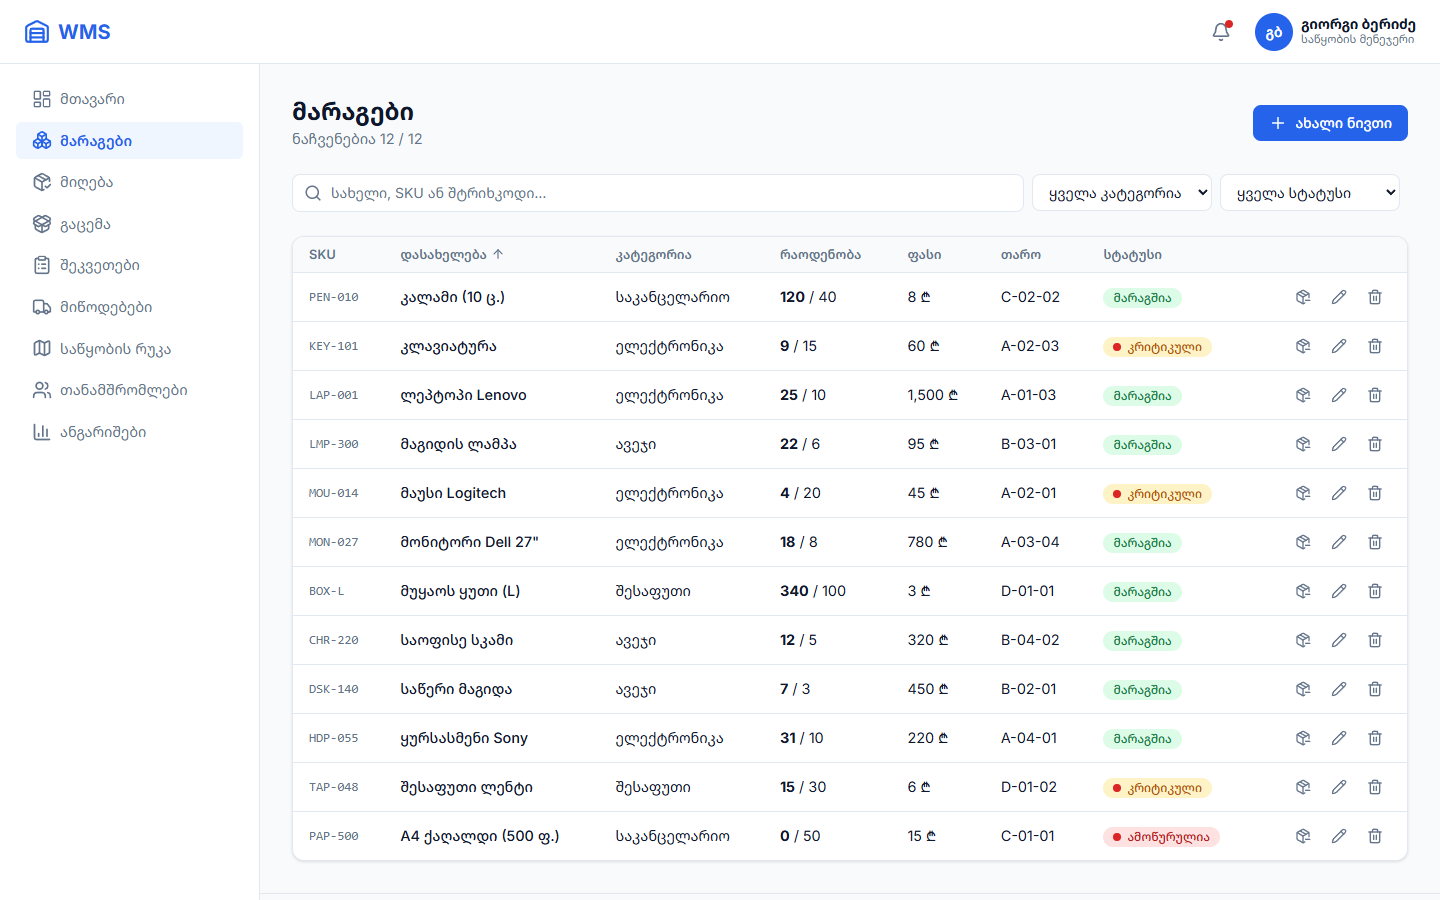
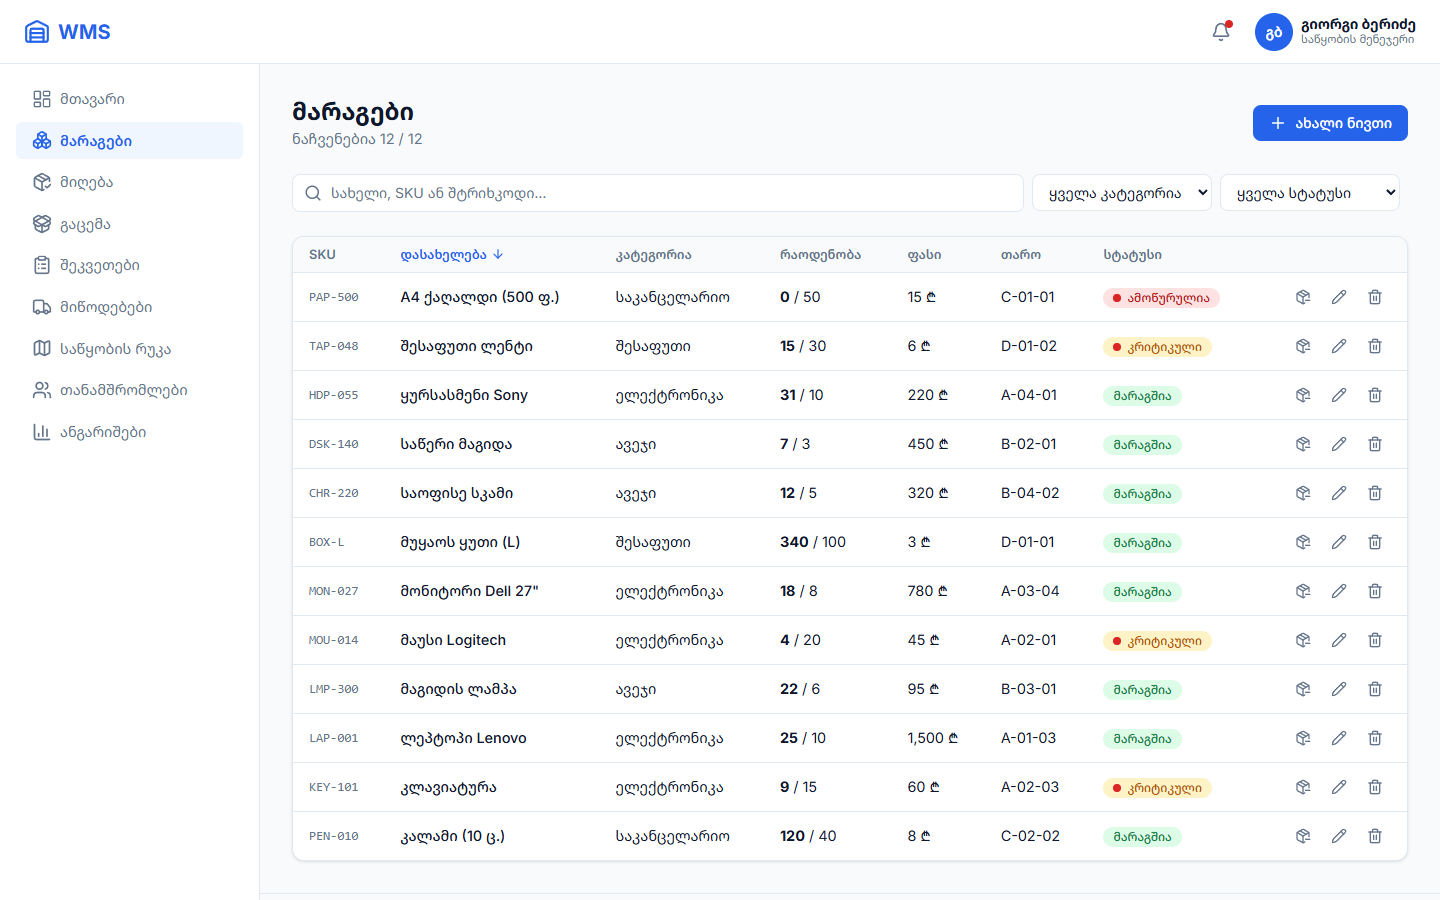
test: add Firefox to cross-browser testing

diff --git a/პრაქტიკული დავალება 18/TESTING.md b/პრაქტიკული დავალება 18/TESTING.md
@@ -23,16 +23,17 @@
 
 ### მეთოდი
 
-ავტომატური ტესტი (**puppeteer**) ორ ბრაუზერში:
-- **Google Chrome** 156;
-- **Microsoft Edge** 156.
+ავტომატური ტესტი (**puppeteer**) სამ ბრაუზერში:
+- **Google Chrome** 156 (Blink);
+- **Microsoft Edge** 156 (Blink);
+- **Mozilla Firefox Developer Edition** 148 (Gecko, სხვა ძრავი).
 
-თითოეულში 6 ეკრანზე × 5 გვერდზე, სულ **60 კომბინაცია**. ყველა გვერდზე მოწმდება:
+თითოეულში 6 ეკრანზე × 5 გვერდზე, სულ **90 კომბინაცია**. ყველა გვერდზე მოწმდება:
 1. ჰორიზონტალური სქროლი (`scrollWidth > innerWidth`);
 2. ტექსტი ან ღილაკი, რომელიც ეკრანიდან გადის;
 3. JavaScript შეცდომები (`pageerror`).
 
-> Firefox კომპიუტერზე დაყენებული არ არის, ამიტომ მეორე ბრაუზერად Edge გამოვიყენე. Edge-ს თავისი ქართული ენის წესები აქვს და სწორედ ამან გამოავლინა ბაგი №1.
+> Edge-ს თავისი ქართული ენის წესები აქვს და სწორედ ამან გამოავლინა ბაგი №1. Firefox განსხვავებულ ძრავზე (Gecko) მუშაობს, ამიტომ მისი შემოწმება CSS-ის განსხვავებებსაც ამოწმებს.
 
 ### მოწყობილობები
 
@@ -49,13 +50,18 @@
 
 ### ფუნქციონალური შემოწმება (ორივე ბრაუზერში)
 
-| ტესტი | Chrome | Edge |
-|---|:---:|:---:|
-| მარაგების ცხრილი: 12 ნივთი | ✅ | ✅ |
-| ძებნა „ლეპ“ → 1 შედეგი (Debounce) | ✅ | ✅ |
-| სორტირება დასახელებით | ✅ (გასწორების შემდეგ) | ✅ (გასწორების შემდეგ) |
-| მოდალი + ფორმის ვალიდაცია (6 შეცდომა) | ✅ | ✅ |
-| JavaScript შეცდომები | 0 | 0 |
+| ტესტი | Chrome | Edge | Firefox |
+|---|:---:|:---:|:---:|
+| მარაგების ცხრილი: 12 ნივთი | ✅ | ✅ | ✅ |
+| ძებნა „ლეპ“ → 1 შედეგი (Debounce) | ✅ | ✅ | ✅ |
+| სორტირება დასახელებით (გასწორების შემდეგ) | ✅ | ✅ | ✅ |
+| მოდალი + ფორმის ვალიდაცია (6 შეცდომა) | ✅ | ✅ | ✅ |
+| ფონტები (Inter, Noto Sans Georgian) | ✅ | ✅ | ✅ |
+| JavaScript შეცდომები | 0 | 0 | 0 |
+
+**სორტირება გასწორების შემდეგ, სამივე ბრაუზერში იდენტურად:** ზრდადობით „კალამი, კლავიატურა, ლეპტოპი … A4 ქაღალდი“, კლებადობით პირველია „A4 ქაღალდი“.
+
+> Firefox-ის ტესტში თავიდან ჩანდა `downloadable font: download failed` შეტყობინებები. შემოწმებამ აჩვენა, რომ ტესტი გვერდებს ისე სწრაფად ცვლიდა, რომ ფონტის ჩამოტვირთვა წყდებოდა (`NS_BINDING_ABORTED`). ჩვეულებრივ გახსნისას ყველა ფონტი სწორად იტვირთება (`document.fonts`), ესე იგი ეს საიტის ბაგი არ არის.
 
 ---
 
@@ -80,7 +86,7 @@
 | **ფიქსი** | [UsersPage.css](../wms-app/src/pages/users/UsersPage.css): ≤1024px-ზე რიგები ბარათად იქცევა, 600–1024px-ზე ბარათის შიგნით 2 სვეტია |
 | **შედეგი** | ყველა მოწყობილობაზე ყველაფერი ეტევა |
 
-**საბოლოო შედეგი:** 60 / 60 კომბინაციაში არც ჰორიზონტალური სქროლია, არც გადაჭრილი ტექსტი და არც JS შეცდომა.
+**საბოლოო შედეგი:** 90 / 90 კომბინაციაში არც ჰორიზონტალური სქროლია, არც გადაჭრილი ტექსტი და არც JS შეცდომა.
 
 ---
 
@@ -88,11 +94,11 @@
 
 ყველა სქრინი: [screenshots/](screenshots/). ფაილის სახელის ფორმატია `ბრაუზერი-მოწყობილობა-გვერდი.png`.
 
-| | Chrome | Edge |
-|---|---|---|
-| iPhone SE: მარაგები | ![](screenshots/chrome-iphone-se-inventory.png) | ![](screenshots/edge-iphone-se-inventory.png) |
-| iPad: მარაგები | ![](screenshots/chrome-ipad-inventory.png) | ![](screenshots/edge-ipad-inventory.png) |
-| დესკტოპი: მარაგები | ![](screenshots/chrome-desktop-inventory.png) | ![](screenshots/edge-desktop-inventory.png) |
+| | Chrome | Edge | Firefox |
+|---|---|---|---|
+| iPhone SE: მარაგები | ![](screenshots/chrome-iphone-se-inventory.png) | ![](screenshots/edge-iphone-se-inventory.png) | ![](screenshots/firefox-iphone-se-inventory.png) |
+| iPad: მარაგები | ![](screenshots/chrome-ipad-inventory.png) | ![](screenshots/edge-ipad-inventory.png) | ![](screenshots/firefox-ipad-inventory.png) |
+| დესკტოპი: მარაგები | ![](screenshots/chrome-desktop-inventory.png) | ![](screenshots/edge-desktop-inventory.png) | ![](screenshots/firefox-desktop-inventory.png) |
 
 **თანამშრომლები, iPad Air (გასწორების შემდეგ):**
 

diff --git a/README.md b/README.md
@@ -119,7 +119,7 @@ wms-app/
 
 ## 🧪 ტესტირება
 
-კროს-ბრაუზერული და რესპონსივ ტესტირება ჩატარდა **Google Chrome**-სა და **Microsoft Edge**-ში, 6 ეკრანის ზომაზე: iPhone SE, iPhone 14, Pixel 7, iPad, iPad Air და დესკტოპი 1440px. სულ შემოწმდა 60 კომბინაცია. დეტალები: [პრაქტიკული დავალება 18/TESTING.md](პრაქტიკული%20დავალება%2018/TESTING.md).
+კროს-ბრაუზერული და რესპონსივ ტესტირება ჩატარდა **Google Chrome**-ში, **Microsoft Edge**-სა და **Mozilla Firefox**-ში, 6 ეკრანის ზომაზე: iPhone SE, iPhone 14, Pixel 7, iPad, iPad Air და დესკტოპი 1440px. სულ შემოწმდა 90 კომბინაცია. დეტალები: [პრაქტიკული დავალება 18/TESTING.md](პრაქტიკული%20დავალება%2018/TESTING.md).
 
 ## 📚 დოკუმენტაცია
 
